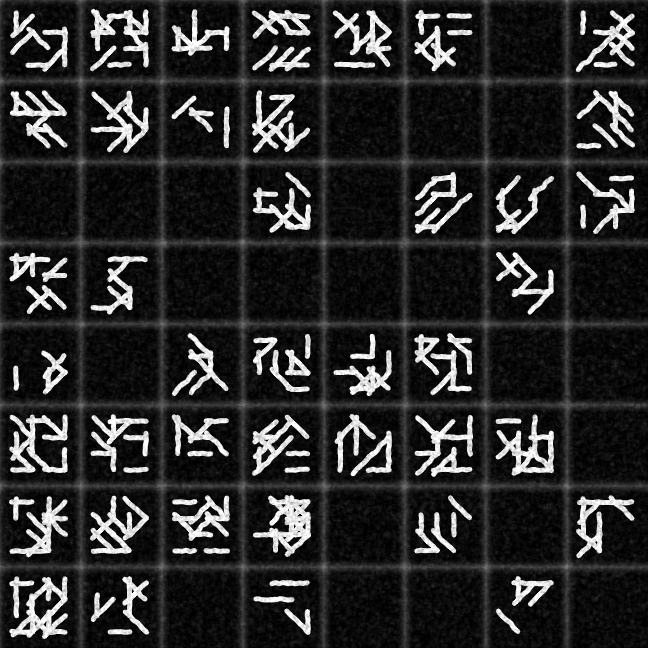
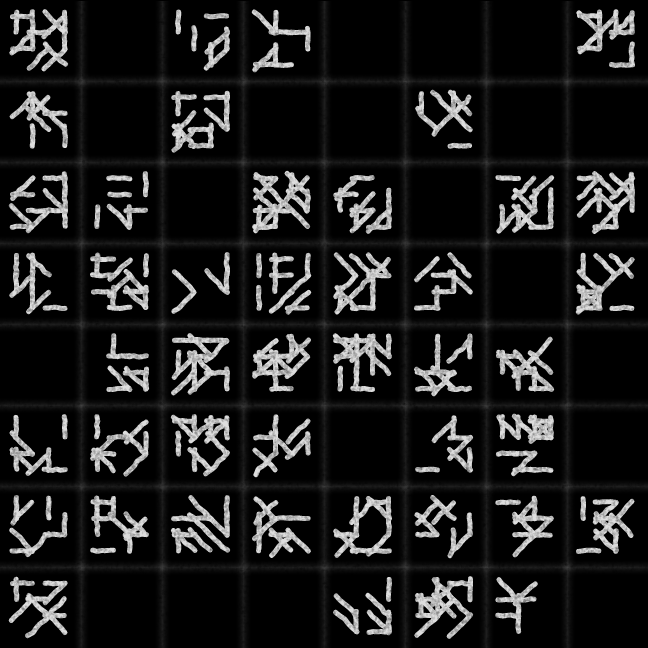
Updated glyphs sketches

diff --git a/glyphs/sketch.js b/glyphs/sketch.js
@@ -1,9 +1,7 @@
 
 let palette = [
     '#000',
-    '#fff',
-    '#fff',
-    '#fa9'
+    '#ddd',
 ]
 
 // t is the time variable (useful for making perfectly looping gifs)
@@ -16,9 +14,7 @@ function setup()
     canvas.parent('sketch-holder');
 
     // Plot the "paper texture" on a different graphics object
-    texture_graphics1 = createGraphics(width, height);
-    texture_graphics2 = createGraphics(width, height);
-    drawNoiseBackground1(100000, texture_graphics1);
+	texture_graphics2 = createGraphics(width, height);
     drawNoiseBackground2(100000, texture_graphics2);
 	
     frameRate(1)
@@ -32,19 +28,16 @@ function draw()
 
     let n = 8
 
-    for(let i = 0; i < n; i++)
+    for(let i = 1; i < n; i++)
     {
         stroke(255)
-        strokeWeight(2)
+        strokeWeight(1)
         line(width*i/n, 0, width*i/n, height)
         line(0, height*i/n, width, height*i/n)
     }
 
     filter(BLUR, 3)
 	filter(ERODE)
-	
-	// Imprint the "paper texture" after everything is drawn
-    image(texture_graphics1, 0, 0)
 
     stroke(palette[1])
     strokeWeight(5)
@@ -115,24 +108,9 @@ function irregular_stroke(x0, y0, x1, y1, n = 4)
     endShape()
 }
 
-function drawNoiseBackground1(_n, _graphics)
-{
-    let c = color(255, 5);
-    for (let i = 0; i < _n; i++)
-    {
-        let x = random(1) * width;
-        let y = random(1) * height;
-        let w = random(1, 6);
-        let h = random(1, 6);
-        _graphics.noStroke();
-        _graphics.fill(c);
-        _graphics.ellipse(x, y, w, h);
-    }
-}
-
 function drawNoiseBackground2(_n, _graphics)
 {
-    let c = color(0, 20);
+    let c = color(0, 30);
     for (let i = 0; i < _n; i++)
     {
         let x = random(1) * width;

diff --git a/glyphs_runes/index.html b/glyphs_runes/index.html
@@ -11,8 +11,18 @@
 
         /* style.css */
 
-        body{
-            font-family: "Computer Modern Sans", sans-serif;
+        @font-face
+        {
+            font-family: Lobster;
+            src: url(../assets/fonts/Lobster/Lobster-Regular.ttf);
+        }
+
+        body
+        {
+            font-family: "Lobster";
+            font-size: 150%;
+            background: #000;
+            color: #fff
         }
 
         h1{
@@ -28,8 +38,8 @@
 
 <body>
 
-    <title>Template</title>
-    <h1>Template</h1>
+    <title>Glyphs - Runes</title>
+    <h1>Glyphs - Runes</h1>
     
     <div id="sketch-holder" class="sketch-holder">
     </div>

diff --git a/glyphs/index.html b/glyphs/index.html
@@ -11,8 +11,18 @@
 
         /* style.css */
 
-        body{
-            font-family: "Computer Modern Sans", sans-serif;
+        @font-face
+        {
+            font-family: Lobster;
+            src: url(../assets/fonts/Lobster/Lobster-Regular.ttf);
+        }
+
+        body
+        {
+            font-family: "Lobster";
+            font-size: 150%;
+            background: #000;
+            color: #fff
         }
 
         h1{
@@ -28,8 +38,8 @@
 
 <body>
 
-    <title>Template</title>
-    <h1>Template</h1>
+    <title>Glyphs</title>
+    <h1>Glyphs</h1>
     
     <div id="sketch-holder" class="sketch-holder">
     </div>

diff --git a/glyphs_runes/sketch.js b/glyphs_runes/sketch.js
@@ -38,10 +38,10 @@ function draw()
     rect(0, 0, width, height)
 
     filter(BLUR, 3)
-		filter(ERODE)
+	filter(ERODE)
 	
     // Imprint the "paper texture" after everything is drawn
-    image(texture_graphics1, 0, 0)
+    //image(texture_graphics1, 0, 0)
 
 	stroke(255)
     strokeWeight(6)
